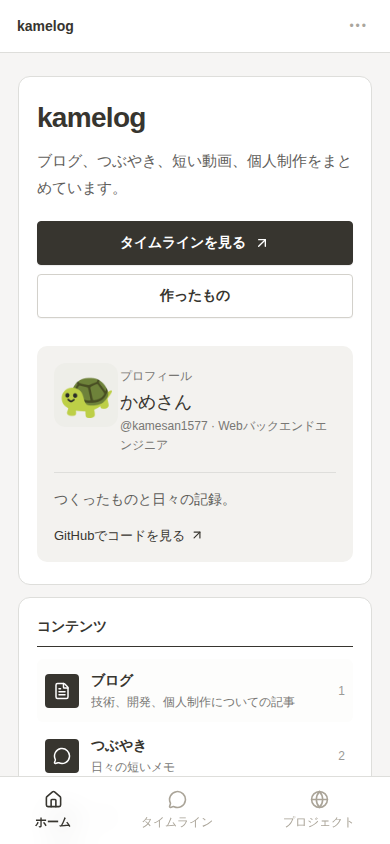
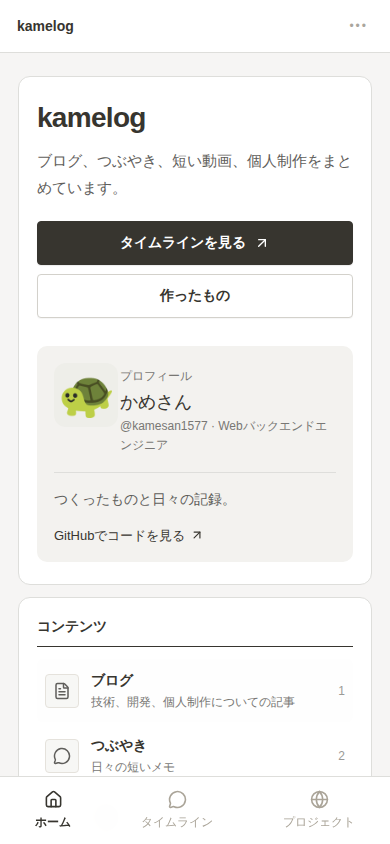
Refresh landing screenshots after review

Changed region(s): [[0.0923, 0.8009, 0.2154, 0.9242]]

diff --git a/HANDOFF.md b/HANDOFF.md
@@ -56,7 +56,7 @@ Issueは作業追跡に限り、チャット内容を読む必要はない。
 - 2026-09-08 Issue #45のデザイン修正では、利用者の指示に従い大きなコピー、状態表示風の装飾、走査アニメーション、過剰な影と引用表現を削除した。`make check`が成功し、PCと390pxの匿名表示を実ブラウザで確認した。ローカルE2E用Chromiumは取得がtimeoutしたため、更新したjourneyはPRのCI `e2e` で確認する。
 - 2026-09-08 Issue #45の経歴・閲覧数変更では、既存DBへの追加migration、閲覧数の永続・復元・投稿削除時消去、同一Origin拒否、公開API、閲覧数による人気投稿選択をunit/E2Eへ追加し、`make check`が成功した。PCと390pxの匿名表示を実ブラウザで確認した。ローカル `make e2e` はPlaywright Chromiumが未導入で起動前に失敗したため、PRのCI `e2e` で確認する。
 - 2026-09-08 Issue #14 SEO変更では、実行環境からGitHubをcheckoutできないためローカル `make check` / `make e2e` は未実施。canonical・JSON-LD・robots・sitemap・404の回帰をunit/E2Eへ追加し、PRのCI `check` / `e2e` / `container` で確認する。公開環境の性能値はデプロイ後に `runbooks/seo.md` で再計測する。
-- 2026-09-08 Issue #56の再調整では、青を主要色から外し、元の「タイムラインを見る」の墨色 `#37352f` を共通ボタン・選択状態・focus・リンクへ展開した。暖色の地と白い情報面、1px罫線でトップページとタイムラインを再構成し、`make check` とGitHub Actions run #187の `check` / `e2e` / `container` がすべて成功した。CIのPlaywright ChromiumでPC/390px表示を撮影し、PRのスクリーンショットを更新した。
+- 2026-09-09 Issue #56の再調整では、青を主要色から外し、元の「タイムラインを見る」の墨色 `#37352f` を共通ボタン・選択状態・focus・リンクへ展開した。暖色の地と白い情報面、1px罫線でトップページとタイムラインを再構成し、コンテンツアイコンと年表示を元の控えめな表現へ戻して片側だけの強調罫線を削除した。`make check` とGitHub Actions run #192の `check` / `e2e` / `container` がすべて成功し、CIのPlaywright ChromiumでPC/390px表示を撮影してPRのスクリーンショットを更新した。
 
 ## 対象サーバーでのみ完了できる項目
 
